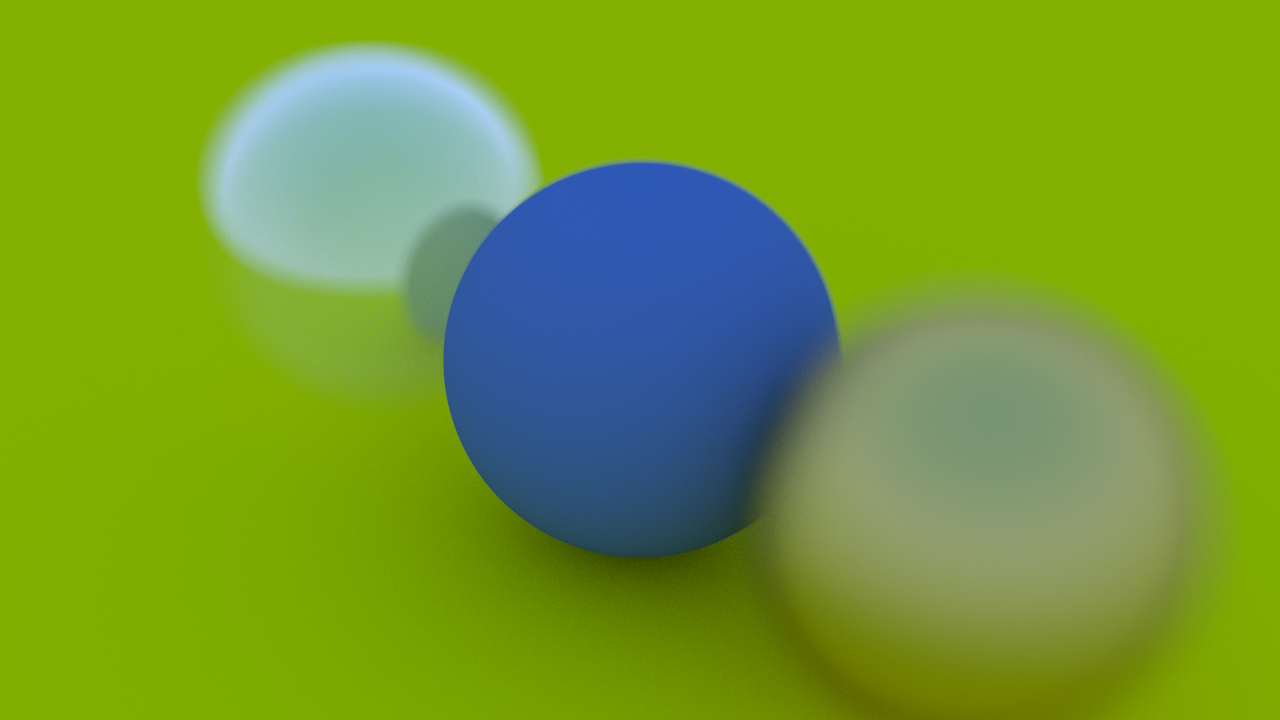
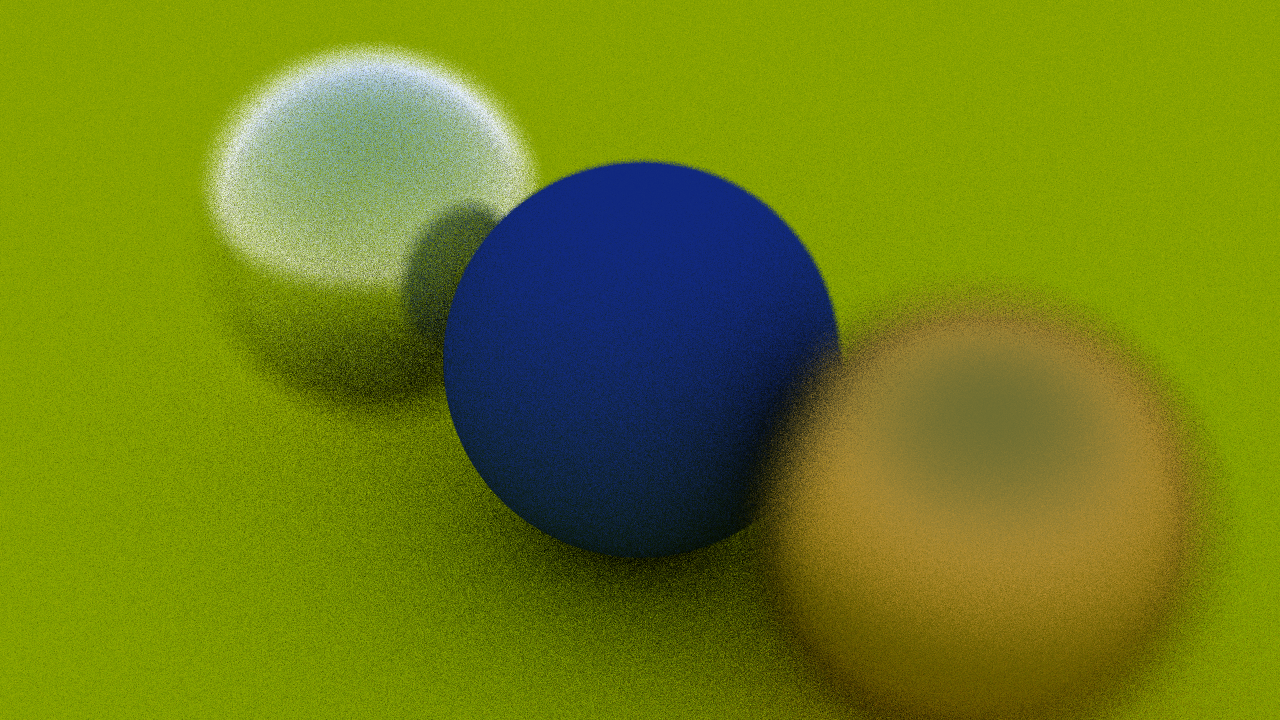
Add distinct colour type

diff --git a/src/mobula/src/scene.rs b/src/mobula/src/scene.rs
@@ -4,6 +4,7 @@ use rayon::prelude::*;
 use serde::{Deserialize, Serialize};
 
 use crate::camera::{Camera, CameraBuilder};
+use crate::colour::Colour;
 use crate::config::Config;
 use crate::hit::{Hit, Hitable};
 use crate::material::Scatter;
@@ -56,7 +57,7 @@ impl Scene {
         hit
     }
 
-    pub fn render_par(&self) -> Vec<(u8, u8, u8)> {
+    pub fn render_par(&self) -> Vec<Colour> {
         let width = self.config.width;
         let height = self.config.height;
         let camera = self.camera.build(&self.config);
@@ -65,7 +66,7 @@ impl Scene {
         progress_bar.set_draw_delta(1000);
         progress_bar.set_style(
             indicatif::ProgressStyle::default_bar()
-                .template("{msg} [{wide_bar}] {eta_precise} ({pos:>7}/{len:7})")
+                .template("{msg} {elapsed} [{wide_bar}] {eta_precise} ({pos:>7}/{len:7})")
                 .progress_chars("=> "),
         );
         progress_bar.set_message("rendering");
@@ -80,11 +81,11 @@ impl Scene {
             })
             .collect();
 
-        progress_bar.finish_with_message("complete!");
+        progress_bar.finish_with_message("complete in");
         bytes
     }
 
-    pub fn render_pixel(&self, i: u32, j: u32, camera: &Camera) -> (u8, u8, u8) {
+    pub fn render_pixel(&self, i: u32, j: u32, camera: &Camera) -> Colour {
         let width = self.config.width;
         let height = self.config.height;
 
@@ -96,15 +97,12 @@ impl Scene {
             let h_sample = rand::random::<f64>() / (width as f64);
             let v_sample = rand::random::<f64>() / (height as f64);
             let ray = camera.get_ray(u + h_sample, v + v_sample);
-            c = c + self.colour(ray, 0);
+            c = c + self.colour(ray, 0).into();
         }
         c = c * (1.0 / (self.config.samples as f64));
         c = V3::new(c.x.sqrt(), c.y.sqrt(), c.z.sqrt());
 
-        let ir = (255.99 * c.x) as u8;
-        let ig = (255.99 * c.y) as u8;
-        let ib = (255.99 * c.z) as u8;
-        (ir, ig, ib)
+        Colour::from(c)
     }
 
     pub fn render(&self) -> ImageBuffer<Rgb<u8>, Vec<u8>> {
@@ -112,40 +110,32 @@ impl Scene {
 
         ImageBuffer::from_fn(self.config.width, self.config.height, |x, y| {
             let pixel_index: usize = ((y * self.config.width) + x) as usize;
-            as_pixel(buf[pixel_index])
+            buf[pixel_index].into()
         })
     }
 
-    fn colour(&self, ray: Ray, depth: u32) -> V3 {
+    fn colour(&self, ray: Ray, depth: u32) -> Colour {
         match self.nearest_hit(&ray, 0.001, std::f64::MAX) {
-            None => colour_background(ray),
+            None => Scene::background(ray),
             Some(hit) => {
                 let mut scattered = Ray::default();
-                let mut attenuation = V3::default();
+                let mut attenuation = Colour::black();
                 if depth < self.config.depth
                     && hit
                         .material
                         .scatter(&ray, &hit, &mut attenuation, &mut scattered)
                 {
-                    attenuation * self.colour(scattered, depth + 1)
+                    Colour::black() * self.colour(scattered, depth + 1)
                 } else {
-                    V3::zero()
+                    Colour::black()
                 }
             }
         }
     }
-}
 
-fn linear_interpolation(start: V3, end: V3, t: f64) -> V3 {
-    (start * (1.0 - t)) + (end * t)
-}
-
-fn as_pixel((r, g, b): (u8, u8, u8)) -> image::Rgb<u8> {
-    image::Rgb([r, g, b])
-}
-
-fn colour_background(ray: Ray) -> V3 {
-    let unit = ray.direction().normalize();
-    let t = 0.5 * unit.y + 1.0;
-    linear_interpolation(V3::new(1.0, 1.0, 1.0), V3::new(0.5, 0.7, 1.0), t)
+    fn background(ray: Ray) -> Colour {
+        let unit = ray.direction().normalize();
+        let t = unit.y.abs();
+        Colour::linear_interpolation(Colour::new(1.0, 1.0, 1.0), Colour::new(0.5, 0.7, 1.0), t)
+    }
 }

diff --git a/src/mobula/src/material.rs b/src/mobula/src/material.rs
@@ -2,12 +2,13 @@ use rand;
 use serde::{Deserialize, Serialize};
 
 use crate::hit::Hit;
+use crate::colour::Colour;
 use crate::ray::Ray;
 use crate::v3::V3;
 
 pub trait Scatter {
     // TODO: this isn't a very rusty signature, but I want to get it working first.
-    fn scatter(self, ray: &Ray, hit: &Hit, attenuation: &mut V3, scattered: &mut Ray) -> bool;
+    fn scatter(self, ray: &Ray, hit: &Hit, attenuation: &mut Colour, scattered: &mut Ray) -> bool;
 }
 
 // TODO: can this be a trait?
@@ -22,13 +23,13 @@ pub enum Material {
 impl Material {
     pub fn lambertian(r: f64, g: f64, b: f64) -> Self {
         Material::Lambertian(Lambertian {
-            albedo: V3::new(r, g, b),
+            albedo: Colour::new(r, g, b),
         })
     }
     pub fn metal(r: f64, g: f64, b: f64, fuzz: f64) -> Self {
         Material::Metal(Metal {
             fuzz,
-            albedo: V3::new(r, g, b),
+            albedo: Colour::new(r, g, b),
         })
     }
     pub fn dialectric(refractive_index: f64) -> Self {
@@ -37,7 +38,7 @@ impl Material {
 }
 
 impl Scatter for Material {
-    fn scatter(self, ray: &Ray, hit: &Hit, attenuation: &mut V3, scattered: &mut Ray) -> bool {
+    fn scatter(self, ray: &Ray, hit: &Hit, attenuation: &mut Colour, scattered: &mut Ray) -> bool {
         match self {
             Material::Lambertian(m) => m.scatter(ray, hit, attenuation, scattered),
             Material::Metal(m) => m.scatter(ray, hit, attenuation, scattered),
@@ -55,7 +56,7 @@ impl Default for Material {
 
 #[derive(Copy, Clone, Debug, Serialize, Deserialize)]
 pub struct Lambertian {
-    albedo: V3,
+    albedo: Colour,
 }
 
 fn random_in_unit_sphere() -> V3 {
@@ -67,7 +68,7 @@ fn random_in_unit_sphere() -> V3 {
 }
 
 impl Scatter for Lambertian {
-    fn scatter(self, _: &Ray, hit: &Hit, attenuation: &mut V3, scattered: &mut Ray) -> bool {
+    fn scatter(self, _: &Ray, hit: &Hit, attenuation: &mut Colour, scattered: &mut Ray) -> bool {
         let target = hit.intersection + hit.normal + random_in_unit_sphere();
         *scattered = Ray::new(hit.intersection, target - hit.intersection.into());
         *attenuation = self.albedo;
@@ -78,19 +79,19 @@ impl Scatter for Lambertian {
 impl Default for Lambertian {
     fn default() -> Self {
         Lambertian {
-            albedo: V3::new(0.5, 0.5, 0.5),
+            albedo: Colour::new(0.5, 0.5, 0.5),
         }
     }
 }
 
 #[derive(Copy, Clone, Debug, Serialize, Deserialize)]
 pub struct Metal {
-    albedo: V3,
+    albedo: Colour,
     fuzz: f64,
 }
 
 impl Scatter for Metal {
-    fn scatter(self, ray: &Ray, hit: &Hit, attenuation: &mut V3, scattered: &mut Ray) -> bool {
+    fn scatter(self, ray: &Ray, hit: &Hit, attenuation: &mut Colour, scattered: &mut Ray) -> bool {
         let reflected = ray.direction().normalize().reflect(hit.normal);
         *scattered = Ray::new(
             hit.intersection,
@@ -115,9 +116,9 @@ impl Dialectric {
 }
 
 impl Scatter for Dialectric {
-    fn scatter(self, ray: &Ray, hit: &Hit, attenuation: &mut V3, scattered: &mut Ray) -> bool {
+    fn scatter(self, ray: &Ray, hit: &Hit, attenuation: &mut Colour, scattered: &mut Ray) -> bool {
         let reflected = ray.direction().reflect(hit.normal);
-        *attenuation = V3::new(1.0, 1.0, 1.0);
+        *attenuation = Colour::new(1.0, 1.0, 1.0);
 
         let (outward_normal, ni_over_nt, cosine) = if ray.direction().dot(hit.normal) > 0.0 {
             (

diff --git a/src/mobula/src/colour.rs b/src/mobula/src/colour.rs
@@ -1,0 +1,96 @@
+use image;
+use serde::{Deserialize, Serialize};
+
+use std::ops::{Add, Mul};
+
+use crate::v3::V3;
+
+#[derive(Copy, Clone, Debug, Serialize, Deserialize)]
+pub struct Colour {
+    r: f64,
+    g: f64,
+    b: f64,
+}
+
+impl Colour {
+    pub fn new(r: f64, g: f64, b: f64) -> Self {
+        assert!(r <= 1.0 && r >= 0.0);
+        assert!(g <= 1.0 && g >= 0.0);
+        assert!(b <= 1.0 && b >= 0.0);
+        Colour { r, g, b }
+    }
+
+    pub fn black() -> Self {
+        Colour::new(0.0, 0.0, 0.0)
+    }
+
+    pub fn white() -> Self {
+        Colour::new(1.0, 1.0, 1.0)
+    }
+
+    pub fn linear_interpolation(start: Colour, end: Colour, t: f64) -> Colour {
+        assert!(
+            t > 0.0 && t <= 1.0,
+            "for linear interpolation of colour, 't' must be between 0 and 1, but got {}",
+            t
+        );
+        let s: V3 = start.into();
+        let e: V3 = end.into();
+        let v: V3 = (s * (1.0 - t)) + (e * t);
+        v.into()
+    }
+}
+
+impl Default for Colour {
+    /// A default colour is useful for initializing data, but we want to be
+    /// able to make sure it's not actually used uninitialized. That's why the
+    /// default colour is a hard magenta -- which makes it easy to spot.
+    fn default() -> Colour {
+        Colour {
+            r: 0.0,
+            g: 0.0,
+            b: 0.0,
+        }
+    }
+}
+
+impl Mul for Colour {
+    type Output = Colour;
+    fn mul(self, other: Colour) -> Self::Output {
+        Colour::new(self.r * other.r, self.g * other.g, self.b * other.b)
+    }
+}
+
+impl Add for Colour {
+    type Output = Colour;
+    fn add(self, other: Colour) -> Self::Output {
+        // We need to clamp between 0.0 and 1.0.
+        Colour {
+            r: (self.r + other.r).max(0.0).min(1.0),
+            g: (self.g + other.g).max(0.0).min(1.0),
+            b: (self.b + other.b).max(0.0).min(1.0),
+        }
+    }
+}
+
+impl From<V3> for Colour {
+    fn from(v: V3) -> Self {
+        Colour::new(v.x, v.y, v.z)
+    }
+}
+
+impl Into<V3> for Colour {
+    fn into(self) -> V3 {
+        V3::new(self.r, self.g, self.b)
+    }
+}
+
+impl Into<image::Rgb<u8>> for Colour {
+    fn into(self) -> image::Rgb<u8> {
+        let r = (255.0 * self.r) as u8;
+        let g = (255.0 * self.g) as u8;
+        let b = (255.0 * self.b) as u8;
+
+        image::Rgb([r, g, b])
+    }
+}

diff --git a/src/mobula/src/lib.rs b/src/mobula/src/lib.rs
@@ -4,8 +4,8 @@
 #![allow(clippy::cast_lossless)]
 
 pub mod camera;
+pub mod colour;
 pub mod config;
-
 pub mod material;
 pub mod point;
 pub mod ray;
